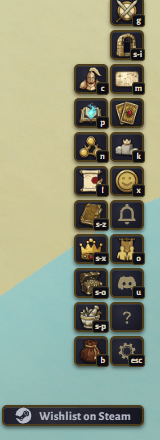
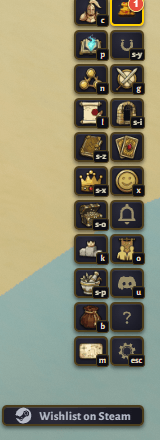
fix(professions): rebalance the rail and update pins the gate caught
Dropping three rail buttons left column A three rows short of column B,
which the mount polish browser suite rejects, so the World Map and the
Leaderboard move into column A (Cosmetics stays under the chest, Deeds
under the quest log, as their own pins require).

The browser harness answers a missing dep with a no-op, so the suites
that build the professions windows directly now pass hubStrip as
undefined. The character sheet pin expects four tabs, the Town Focus
close-arm pin anchors on the next case after the fold, and the guide
controls key for the Harvest Journal is retired with its reason.

Changed region(s): [[0.0, 0.0, 1.0, 1.0]]

diff --git a/index.html b/index.html
@@ -790,17 +790,17 @@
         <button type="button" class="micro-btn ui-icon-btn ui-icon-btn--micro" id="mm-deeds" data-i18n-title="hudChrome.deeds.title" data-i18n-aria="hudChrome.deeds.title" title="Book of Deeds" aria-label="Book of Deeds" data-icon="book"><span class="keybind ui-keycap">s-z</span></button>
         <button type="button" class="micro-btn ui-icon-btn ui-icon-btn--micro" id="mm-reliquary" data-i18n-title="hudChrome.reliquary.title" data-i18n-aria="hudChrome.reliquary.title" title="The Reliquary" aria-label="The Reliquary" data-icon="crown"><span class="keybind ui-keycap">s-x</span></button>
         <button type="button" class="micro-btn ui-icon-btn ui-icon-btn--micro" id="mm-loot-explorer" data-i18n-title="hudChrome.lootExplorer.title" data-i18n-aria="hudChrome.lootExplorer.title" title="Loot Explorer" aria-label="Loot Explorer" data-icon="chest"><span class="keybind ui-keycap">s-o</span></button>
+        <button type="button" class="micro-btn ui-icon-btn ui-icon-btn--micro" id="mm-leaderboard" data-i18n-title="game.leaderboard.title" data-i18n-aria="game.leaderboard.title" title="Leaderboard" aria-label="Leaderboard" data-icon="leaderboard"><span class="keybind ui-keycap">k</span></button>
         <button type="button" class="micro-btn ui-icon-btn ui-icon-btn--micro" id="mm-professions" data-i18n-title="hudChrome.professions.title" data-i18n-aria="hudChrome.professions.title" title="Professions" aria-label="Professions" data-icon="professions"><span class="keybind ui-keycap">s-p</span></button>
         <button type="button" class="micro-btn ui-icon-btn ui-icon-btn--micro" id="mm-bag" data-i18n-title="itemUi.bags.title" data-i18n-aria="itemUi.bags.title" title="Bags" aria-label="Bags" data-icon="bags"><span class="keybind ui-keycap">b</span></button>
+        <button type="button" class="micro-btn ui-icon-btn ui-icon-btn--micro" id="mm-map" data-i18n-title="hud.keybinds.actions.map" data-i18n-aria="hud.keybinds.actions.map" title="World Map" aria-label="World Map" data-icon="map"><span class="keybind ui-keycap">m</span></button>
       </div>
       <div id="side-buttons-col-b" class="side-buttons-col">
         <button id="daily-rewards-button" class="micro-btn ui-icon-btn ui-icon-btn--micro" type="button" data-i18n-title="hudChrome.wocStore.title" data-i18n-aria="hudChrome.wocStore.title" title="WOC Store" aria-label="WOC Store"></button>
         <button type="button" class="micro-btn ui-icon-btn ui-icon-btn--micro" id="mm-cosmetics" data-i18n-title="hudChrome.cosmetics.title" data-i18n-aria="hudChrome.cosmetics.title" title="Cosmetics" aria-label="Cosmetics" data-icon="mount"><span class="keybind ui-keycap">s-y</span></button>
         <button type="button" class="micro-btn ui-icon-btn ui-icon-btn--micro" id="mm-arena" data-i18n-title="hudChrome.pvp.launcherTitle" data-i18n-aria="hudChrome.pvp.launcherTitle" title="PvP: Thornhollow Fields and the Arenas" aria-label="PvP: Thornhollow Fields and the Arenas" data-icon="arena"><span class="keybind ui-keycap">g</span></button>
         <button type="button" class="micro-btn ui-icon-btn ui-icon-btn--micro" id="mm-dfinder" data-i18n-title="hudChrome.finder.title" data-i18n-aria="hudChrome.finder.title" title="Dungeon Finder" aria-label="Dungeon Finder" data-icon="dfinder"><span class="keybind ui-keycap">Shift+I</span></button>
-        <button type="button" class="micro-btn ui-icon-btn ui-icon-btn--micro" id="mm-map" data-i18n-title="hud.keybinds.actions.map" data-i18n-aria="hud.keybinds.actions.map" title="World Map" aria-label="World Map" data-icon="map"><span class="keybind ui-keycap">m</span></button>
         <button type="button" class="micro-btn ui-icon-btn ui-icon-btn--micro" id="mm-cardduel" data-i18n-title="cardDuel.title" data-i18n-aria="cardDuel.title" title="Card Duel" aria-label="Card Duel" data-icon="cards"></button>
-        <button type="button" class="micro-btn ui-icon-btn ui-icon-btn--micro" id="mm-leaderboard" data-i18n-title="game.leaderboard.title" data-i18n-aria="game.leaderboard.title" title="Leaderboard" aria-label="Leaderboard" data-icon="leaderboard"><span class="keybind ui-keycap">k</span></button>
         <button type="button" class="micro-btn ui-icon-btn ui-icon-btn--micro" id="mm-wocmarket" hidden data-i18n-title="hudChrome.wocMarket.launcherLabel" data-i18n-aria="hudChrome.wocMarket.launcherLabel" title="$WOC Exchange" aria-label="$WOC Exchange" data-icon="market"></button>
         <button type="button" class="micro-btn ui-icon-btn ui-icon-btn--micro" id="mm-emote" data-i18n-aria="hudChrome.emoteWheel.label" aria-label="Emotes" data-icon="emote"><span class="keybind ui-keycap">x</span></button>
         <button type="button" class="micro-btn ui-icon-btn ui-icon-btn--micro" id="expedition-bell" data-i18n-title="hudChrome.finder.title" data-i18n-aria="hudChrome.finder.title" title="Groups" aria-label="Groups" aria-controls="dungeon-finder-window" aria-haspopup="dialog" data-icon="bell"></button>

diff --git a/play.html b/play.html
@@ -740,17 +740,17 @@
         <button type="button" class="micro-btn ui-icon-btn ui-icon-btn--micro" id="mm-deeds" data-i18n-title="hudChrome.deeds.title" data-i18n-aria="hudChrome.deeds.title" title="Book of Deeds" aria-label="Book of Deeds" data-icon="book"><span class="keybind ui-keycap">s-z</span></button>
         <button type="button" class="micro-btn ui-icon-btn ui-icon-btn--micro" id="mm-reliquary" data-i18n-title="hudChrome.reliquary.title" data-i18n-aria="hudChrome.reliquary.title" title="The Reliquary" aria-label="The Reliquary" data-icon="crown"><span class="keybind ui-keycap">s-x</span></button>
         <button type="button" class="micro-btn ui-icon-btn ui-icon-btn--micro" id="mm-loot-explorer" data-i18n-title="hudChrome.lootExplorer.title" data-i18n-aria="hudChrome.lootExplorer.title" title="Loot Explorer" aria-label="Loot Explorer" data-icon="chest"><span class="keybind ui-keycap">s-o</span></button>
+        <button type="button" class="micro-btn ui-icon-btn ui-icon-btn--micro" id="mm-leaderboard" data-i18n-title="game.leaderboard.title" data-i18n-aria="game.leaderboard.title" title="Leaderboard" aria-label="Leaderboard" data-icon="leaderboard"><span class="keybind ui-keycap">k</span></button>
         <button type="button" class="micro-btn ui-icon-btn ui-icon-btn--micro" id="mm-professions" data-i18n-title="hudChrome.professions.title" data-i18n-aria="hudChrome.professions.title" title="Professions" aria-label="Professions" data-icon="professions"><span class="keybind ui-keycap">s-p</span></button>
         <button type="button" class="micro-btn ui-icon-btn ui-icon-btn--micro" id="mm-bag" data-i18n-title="itemUi.bags.title" data-i18n-aria="itemUi.bags.title" title="Bags" aria-label="Bags" data-icon="bags"><span class="keybind ui-keycap">b</span></button>
+        <button type="button" class="micro-btn ui-icon-btn ui-icon-btn--micro" id="mm-map" data-i18n-title="hud.keybinds.actions.map" data-i18n-aria="hud.keybinds.actions.map" title="World Map" aria-label="World Map" data-icon="map"><span class="keybind ui-keycap">m</span></button>
       </div>
       <div id="side-buttons-col-b" class="side-buttons-col">
         <button id="daily-rewards-button" class="micro-btn ui-icon-btn ui-icon-btn--micro" type="button" data-i18n-title="hudChrome.wocStore.title" data-i18n-aria="hudChrome.wocStore.title" title="WOC Store" aria-label="WOC Store"></button>
         <button type="button" class="micro-btn ui-icon-btn ui-icon-btn--micro" id="mm-cosmetics" data-i18n-title="hudChrome.cosmetics.title" data-i18n-aria="hudChrome.cosmetics.title" title="Cosmetics" aria-label="Cosmetics" data-icon="mount"><span class="keybind ui-keycap">s-y</span></button>
         <button type="button" class="micro-btn ui-icon-btn ui-icon-btn--micro" id="mm-arena" data-i18n-title="hudChrome.pvp.launcherTitle" data-i18n-aria="hudChrome.pvp.launcherTitle" title="PvP: Thornhollow Fields and the Arenas" aria-label="PvP: Thornhollow Fields and the Arenas" data-icon="arena"><span class="keybind ui-keycap">g</span></button>
         <button type="button" class="micro-btn ui-icon-btn ui-icon-btn--micro" id="mm-dfinder" data-i18n-title="hudChrome.finder.title" data-i18n-aria="hudChrome.finder.title" title="Dungeon Finder" aria-label="Dungeon Finder" data-icon="dfinder"><span class="keybind ui-keycap">Shift+I</span></button>
-        <button type="button" class="micro-btn ui-icon-btn ui-icon-btn--micro" id="mm-map" data-i18n-title="hud.keybinds.actions.map" data-i18n-aria="hud.keybinds.actions.map" title="World Map" aria-label="World Map" data-icon="map"><span class="keybind ui-keycap">m</span></button>
         <button type="button" class="micro-btn ui-icon-btn ui-icon-btn--micro" id="mm-cardduel" data-i18n-title="cardDuel.title" data-i18n-aria="cardDuel.title" title="Card Duel" aria-label="Card Duel" data-icon="cards"></button>
-        <button type="button" class="micro-btn ui-icon-btn ui-icon-btn--micro" id="mm-leaderboard" data-i18n-title="game.leaderboard.title" data-i18n-aria="game.leaderboard.title" title="Leaderboard" aria-label="Leaderboard" data-icon="leaderboard"><span class="keybind ui-keycap">k</span></button>
         <button type="button" class="micro-btn ui-icon-btn ui-icon-btn--micro" id="mm-wocmarket" hidden data-i18n-title="hudChrome.wocMarket.launcherLabel" data-i18n-aria="hudChrome.wocMarket.launcherLabel" title="$WOC Exchange" aria-label="$WOC Exchange" data-icon="market"></button>
         <button type="button" class="micro-btn ui-icon-btn ui-icon-btn--micro" id="mm-emote" data-i18n-aria="hudChrome.emoteWheel.label" aria-label="Emotes" data-icon="emote"><span class="keybind ui-keycap">x</span></button>
         <button type="button" class="micro-btn ui-icon-btn ui-icon-btn--micro" id="expedition-bell" data-i18n-title="hudChrome.finder.title" data-i18n-aria="hudChrome.finder.title" title="Groups" aria-label="Groups" aria-controls="dungeon-finder-window" aria-haspopup="dialog" data-icon="bell"></button>

diff --git a/tests/town_focus_repaint_gate.test.ts b/tests/town_focus_repaint_gate.test.ts
@@ -1295,11 +1295,11 @@ describe('Town Focus focus-system wiring (source pins)', () => {
   });
 
   it('routes the managed close (Escape / closeAll / gamepad) through that one path', () => {
-    // The end anchor leans on `crafting-window` being the very next case (it is).
-    // A case inserted between them widens the region, which reds the negative
-    // half LOUDLY rather than passing it vacuously, so this is maintenance cost
-    // and not a coverage hole.
-    const arm = region("case 'town-focus-window':", "case 'crafting-window':");
+    // The end anchor leans on `commission-board-window` being the very next case
+    // (it is). A case inserted between them widens the region, which reds the
+    // negative half LOUDLY rather than passing it vacuously, so this is
+    // maintenance cost and not a coverage hole.
+    const arm = region("case 'town-focus-window':", "case 'commission-board-window':");
     expect(arm).toContain('this.closeTownFocus();');
     // Pure belt, and worth naming as such so nobody upgrades it thinking it is
     // the gate: the refusal has obvious dead alternates (`el.hidden = true`, a

diff --git a/tests/browser/a11y.browser.test.ts b/tests/browser/a11y.browser.test.ts
@@ -1271,6 +1271,8 @@ describe('axe: professions window tool-effect controls', () => {
     const win = new ProfessionsWindow(
       stubDeps({
         root: () => root,
+        // stubDeps answers every missing dep with a no-op; outside the hub there is no strip.
+        hubStrip: undefined,
         world: () => world as never,
         consumePeek: () => false,
         itemIcon: () => '<img alt="">',
@@ -1388,6 +1390,8 @@ describe('axe: harvest journal rows and the ready status line', () => {
     const win = new HarvestJournalWindow(
       stubDeps({
         root: () => root,
+        // stubDeps answers every missing dep with a no-op; outside the hub there is no strip.
+        hubStrip: undefined,
         world: () => world as never,
       }),
     );

diff --git a/tests/browser/char_panel_layout.browser.test.ts b/tests/browser/char_panel_layout.browser.test.ts
@@ -125,7 +125,7 @@ describe('character sheet desktop geometry', () => {
       .soft(mastery.getBoundingClientRect().bottom, '.char-spec-mastery')
       .toBeLessThanOrEqual(rail.getBoundingClientRect().bottom + 1);
     expect.soft(footerBounds.bottom).toBeLessThanOrEqual(bounds.bottom + 1);
-    expect(root.querySelectorAll('.char-footer [role="tab"]')).toHaveLength(5);
+    expect(root.querySelectorAll('.char-footer [role="tab"]')).toHaveLength(4);
     const slots = Array.from(
       root.querySelectorAll<HTMLElement>('#equip-row-weapons [data-equip-slot]'),
       (slot) => slot.dataset.equipSlot,

diff --git a/tests/professions_hub_launchers.test.ts b/tests/professions_hub_launchers.test.ts
@@ -78,8 +78,10 @@ describe('one Professions launcher on the rail', () => {
       'mm-deeds',
       'mm-reliquary',
       'mm-loot-explorer',
+      'mm-leaderboard',
       'mm-professions',
       'mm-bag',
+      'mm-map',
     ];
     for (const [name, html] of entries) {
       const buttons = colA(html).match(/<button[^>]*class="[^"]*\bmicro-btn\b[^"]*"[^>]*>/g) ?? [];

diff --git a/tests/browser/intentional_gathering.browser.test.ts b/tests/browser/intentional_gathering.browser.test.ts
@@ -231,6 +231,8 @@ function mount(mobile: boolean) {
   const professions = new ProfessionsWindow(
     stubDeps({
       root: () => profRoot,
+      // stubDeps answers every missing dep with a no-op; outside the hub there is no strip.
+      hubStrip: undefined,
       world: live,
       consumePeek: () => false,
       itemIcon: () => '',
